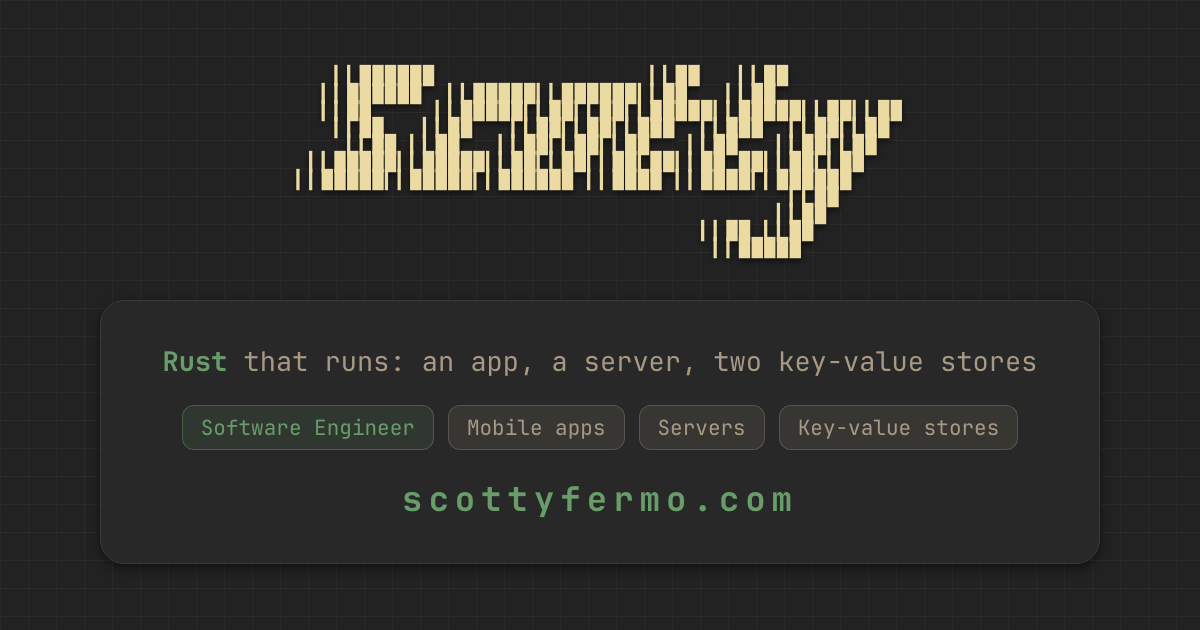
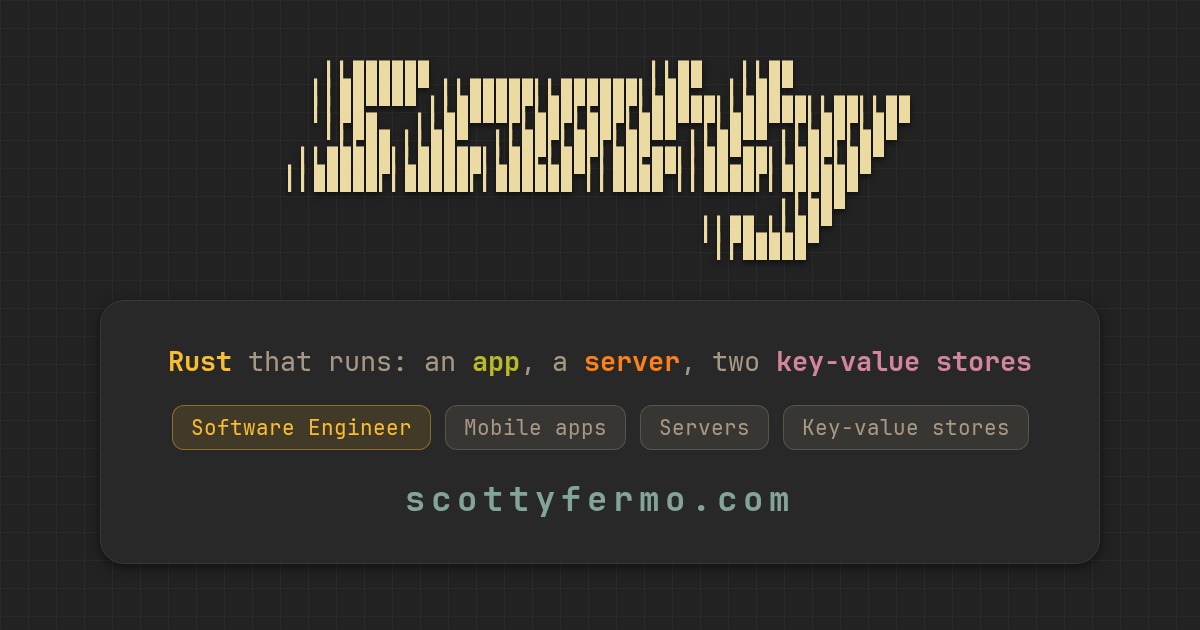
OG card: gruvbox palette roles, wordmark in the page font

diff --git a/context/marketing/og_default.html b/context/marketing/og_default.html
@@ -8,7 +8,10 @@
      context/marketing/og_default.html: the gruvbox-dark 28px grid on a
      darkened --bg-sink, the block-glyph wordmark (assets/scotty.txt)
      sitting on the grid, and everything else in a hero-style bubble panel.
-     Tokens are the gruvbox-dark :root values from zwipe-components themes.css.
+     Tokens are the gruvbox-dark values from zwipe-components themes.css, and
+     the colors play the roles the home hero gives them: Rust in palette-5,
+     the app in palette-3, the server in palette-2, the stores in the tertiary
+     accent, the value chip in palette-5, the domain in the primary accent.
      The block glyphs (U+258E/U+2589) need the self-hosted JetBrains Mono (CDN
      fontsource subsets drop U+2580-U+259F), loaded from the sibling zwipe
      checkout. Rendered into public/ (dx serves it verbatim at
@@ -36,7 +39,11 @@
   --bg-primary: #282828;
   --text-primary: #ebdba2;
   --text-muted: #a89984;
-  --accent-primary: #689d6a;
+  --accent-primary: #83a598;
+  --accent-tertiary: #d3869b;
+  --palette-2: #fe8019;
+  --palette-3: #b8bb26;
+  --palette-5: #fabd2f;
   --border-secondary: #3c3836;
   --shadow-md: 0 4px 12px rgba(0, 0, 0, 0.5);
   --grid-line: rgba(235, 219, 162, 0.04);
@@ -67,6 +74,7 @@ body {
 
 .wordmark {
   white-space: pre;
+  font-family: inherit;
   font-weight: 700;
   font-size: 21px;
   line-height: 0.82;
@@ -94,7 +102,10 @@ body {
   text-align: center;
   white-space: nowrap;
 }
-.hl { color: var(--accent-primary); font-weight: 700; }
+.hl-p5 { color: var(--palette-5); font-weight: 700; }
+.hl-p3 { color: var(--palette-3); font-weight: 700; }
+.hl-p2 { color: var(--palette-2); font-weight: 700; }
+.hl-tertiary { color: var(--accent-tertiary); font-weight: 700; }
 
 .tags {
   display: flex;
@@ -108,9 +119,9 @@ body {
   white-space: nowrap;
 }
 .tag-value {
-  color: var(--accent-primary);
-  background-color: color-mix(in srgb, var(--accent-primary) 12%, transparent);
-  border-color: color-mix(in srgb, var(--accent-primary) 40%, transparent);
+  color: var(--palette-5);
+  background-color: color-mix(in srgb, var(--palette-5) 12%, transparent);
+  border-color: color-mix(in srgb, var(--palette-5) 40%, transparent);
 }
 .tag-plat {
   color: var(--text-muted);
@@ -140,7 +151,7 @@ body {
                                  ▎▎▉▉▉▉▉</pre>
 
   <div class="hero">
-    <div class="tagline"><span class="hl">Rust</span> that runs: an app, a server, two key-value stores</div>
+    <div class="tagline"><span class="hl-p5">Rust</span> that runs: an <span class="hl-p3">app</span>, a <span class="hl-p2">server</span>, two <span class="hl-tertiary">key-value stores</span></div>
     <div class="tags">
       <span class="tag tag-value">Software Engineer</span>
       <span class="tag tag-plat">Mobile apps</span>
